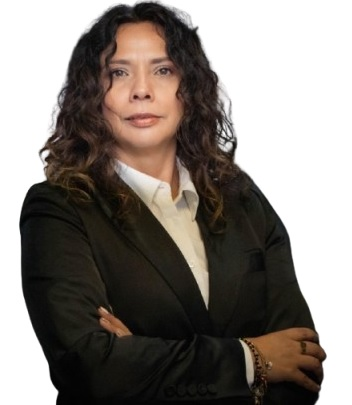
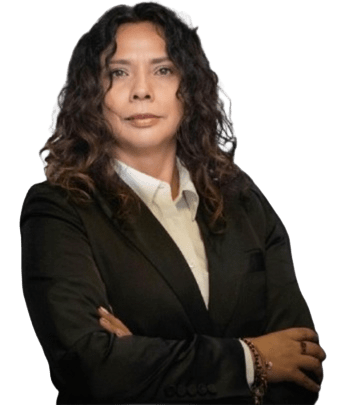
se agregan los nuevos integrantes del cpc

diff --git a/src/content/integrantes/guadalupe-ortega-gutierrez.md b/src/content/integrantes/guadalupe-ortega-gutierrez.md
@@ -1,0 +1,10 @@
+---
+title: Lcda. Guadalupe Ortega Gutiérrez
+order: 3
+email: guadalupe.ortega@email.com
+image: "@assets/images/team/guadalupe-ortega-gutierrez.png"
+social:
+  email: "guadalupe.ortega@guadalupeortega.com"
+---
+
+Integrante

diff --git a/src/content/integrantes/brandon-jimenez-enríquez.md b/src/content/integrantes/brandon-jimenez-enríquez.md
@@ -1,0 +1,10 @@
+---
+title: Lcdo. Brandon Jiménez Enríquez
+order: 4
+email: brandon.jimenez@email.com
+image: "@assets/images/team/brandon-jimenez-enriquez.png"
+social:
+  email: "brandon.jimenez@email.com"
+---
+
+Integrante

diff --git a/src/content/integrantes/carlos-perez-ramirez.md b/src/content/integrantes/carlos-perez-ramirez.md
@@ -1,5 +1,5 @@
 ---
-title: Lic. Carlos Jonathan Pérez Ramírez
+title: Lcdo. Carlos Jonathan Pérez Ramírez
 order: 2
 email: janedoe@email.com
 image: "@assets/images/team/carlos-perez.jpg"

diff --git a/src/content/integrantes/juan-carlos-cruz.md b/src/content/integrantes/juan-carlos-cruz.md
@@ -1,5 +1,5 @@
 ---
-title: Lic. Juan Carlos Cruz Jiménez
+title: Mtro. Juan Carlos Cruz Jiménez
 order: 1
 email: janedoe@email.com
 image: "@assets/images/team/juan-cruz.png"

diff --git a/src/content/integrantes/elizabet-olivares-guevara.md b/src/content/integrantes/elizabet-olivares-guevara.md
@@ -1,6 +1,6 @@
 ---
 title: Dra. Elizabeth Olivares Guevara
-order: 3
+order: 5
 email: janedoe@email.com
 image: "@assets/images/team/elizabeth-olivares.jpg"
 social:
